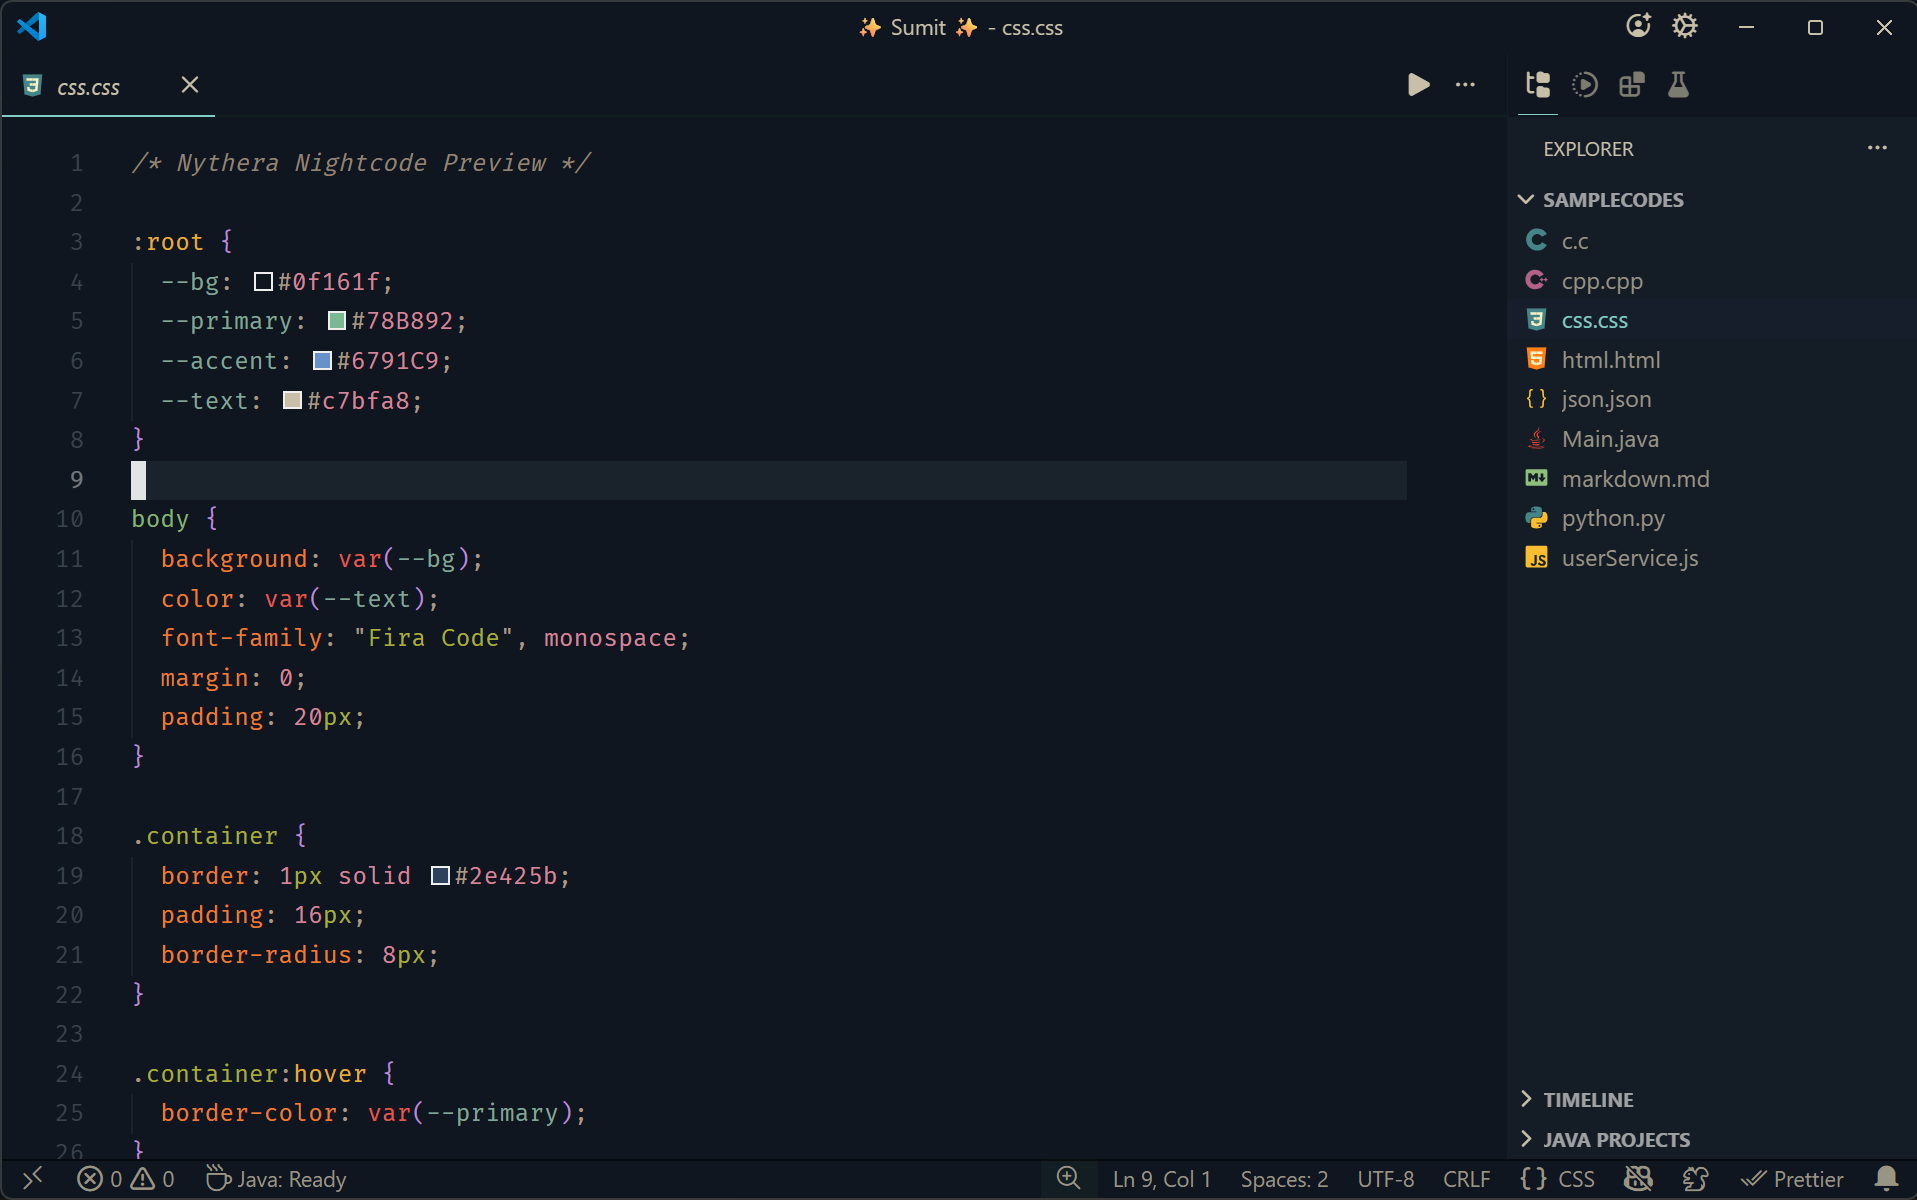
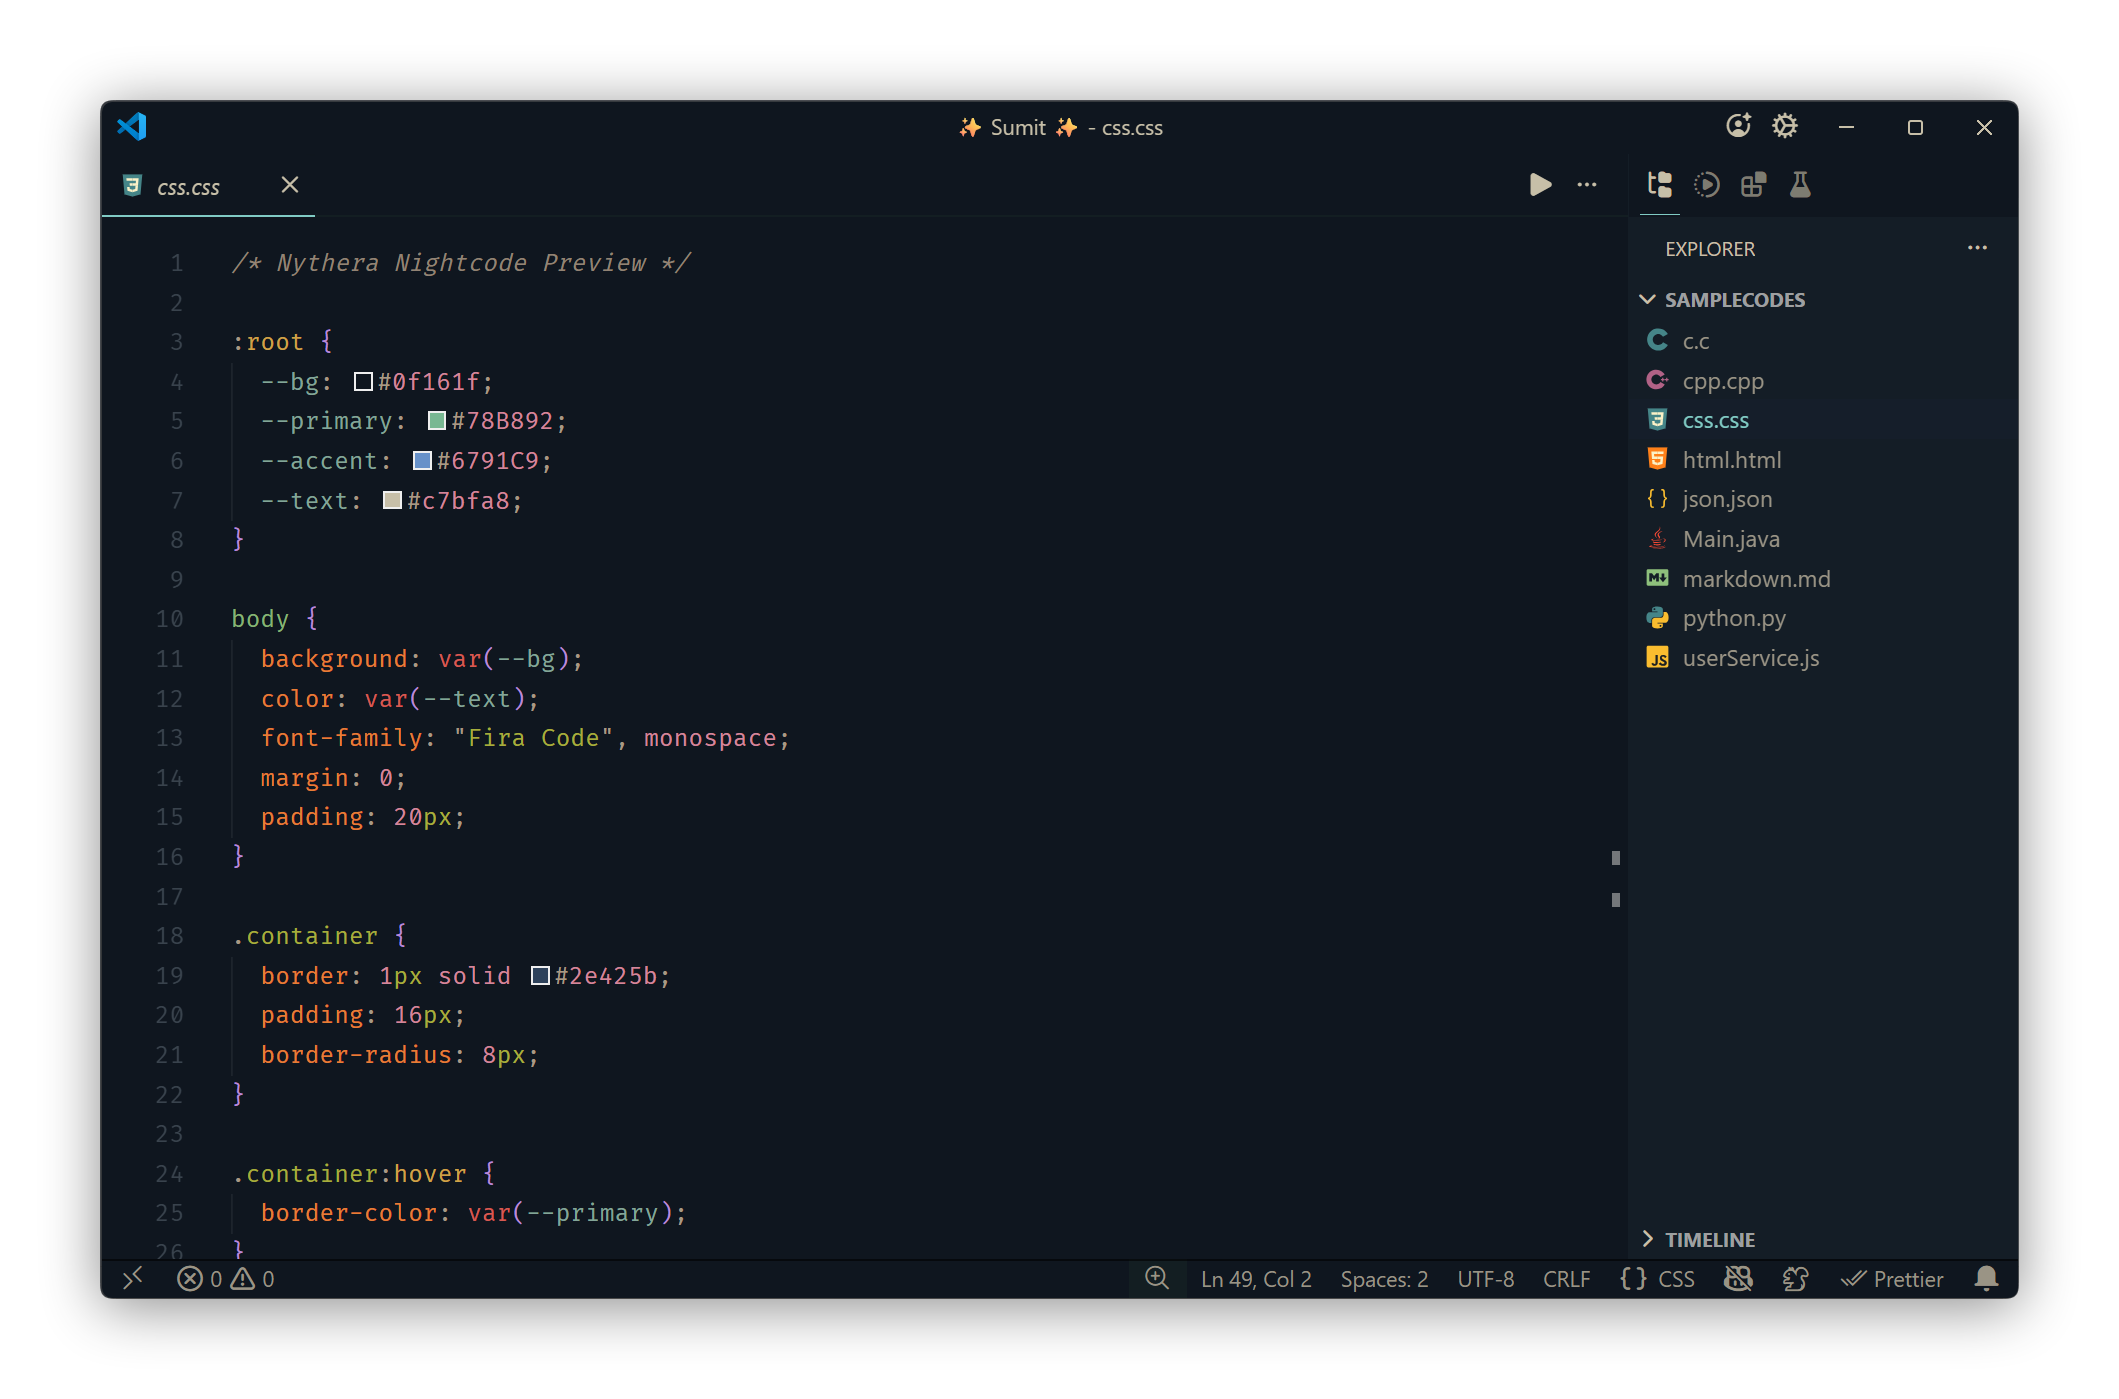
Updates in preview images with shadows

Changed region(s): [[0.0, 0.0, 1.0, 1.0], [0.7079, 0.1233, 0.7387, 0.1542]]

diff --git a/samplecodes/python.py b/samplecodes/python.py
@@ -28,7 +28,6 @@ class UserService:
             print(f"Failed to load config: {error}")
             return None
 
-
 service = UserService(None)
 
 for user in service.get_active_users():

diff --git a/README.md b/README.md
@@ -1,6 +1,6 @@
 # Nythera Nightcode Assets
 
-![Nythera Nightcode Preview](https://raw.githubusercontent.com/developer-sumit-web/nythera-nightcode-assets/main/Assets/preview-main.png)
+![Nythera Nightcode Preview](https://raw.githubusercontent.com/developer-sumit-web/nythera-nightcode-assets/main/preview-main.png)
 
 This repository contains the **preview images and visual assets** used for the **Nythera Nightcode Visual Studio Code theme**.
 
